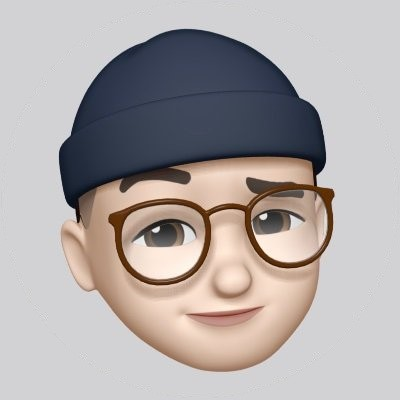
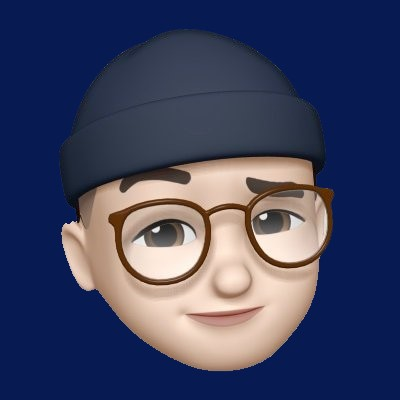
art

diff --git a/design.css b/design.css
@@ -74,7 +74,7 @@ hr {
 .middle-container {
   text-align: center;
   line-height: 2;
-  padding-top: 5%;
+  padding-top: 7%;
 }
 
 .bottom-container {
@@ -97,8 +97,8 @@ hr {
 }
 
 .mountain {
-  width: 31%;
-  padding-bottom: 10%;
+  width: 25%;
+  padding-bottom: 13%;
 }
 
 /* PHOTOS */
@@ -311,7 +311,7 @@ hr {
   background-color: #071a52;
   color: white;
   padding-bottom: 10%;
-  padding-top: 5%;
+  padding-top: 7%;
 }
 
 .skls-image {

diff --git a/index.html b/index.html
@@ -68,7 +68,7 @@
             <img class="top-cloud" src="cloud.png" alt="">
             <h1 class="mynameFont">I'm Ruan Dias</h1>
             <p class="undernameFont">A Full Stack Developer and Data Analyst</p>
-            <img class="mountain" src="mountain.png">
+            <img class="mountain" src="avatar.jpg">
             <img class="bottom-cloud" src="cloud.png" alt="">
         
         </div>
